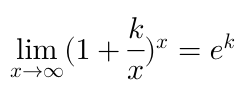
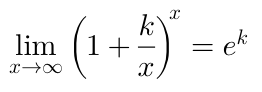
Updated examples.

diff --git a/EXAMPLES.md b/EXAMPLES.md
@@ -43,7 +43,7 @@ x = \frac{-b \pm \sqrt{b^2-4ac}}{2a}
 
 ## Limit e^k
 ```LaTeX
-\lim_{x\to\infty}(1 + \frac{k}{x})^x = e^k
+\lim_{x\to\infty}\left(1 + \frac{k}{x}\right)^x = e^k
 ```
 
 ![Limit](img/limit.png)
@@ -61,6 +61,12 @@ x = \frac{-b \pm \sqrt{b^2-4ac}}{2a}
 ```
 
 ![AM-GM](img/amgm.png)
+
+## Cauchy-Schwarz inequality
+```LaTeX
+\left(\sum_{k=1}^n a_k b_k \right)^2 \le \left(\sum_{k=1}^n a_k^2\right)\left(\sum_{k=1}^n b_k^2\right)
+```
+![Cauchy Schwarz](img/cauchyschwarz.png)
 
 ## Cauchy integral formula
 ```LaTeX
